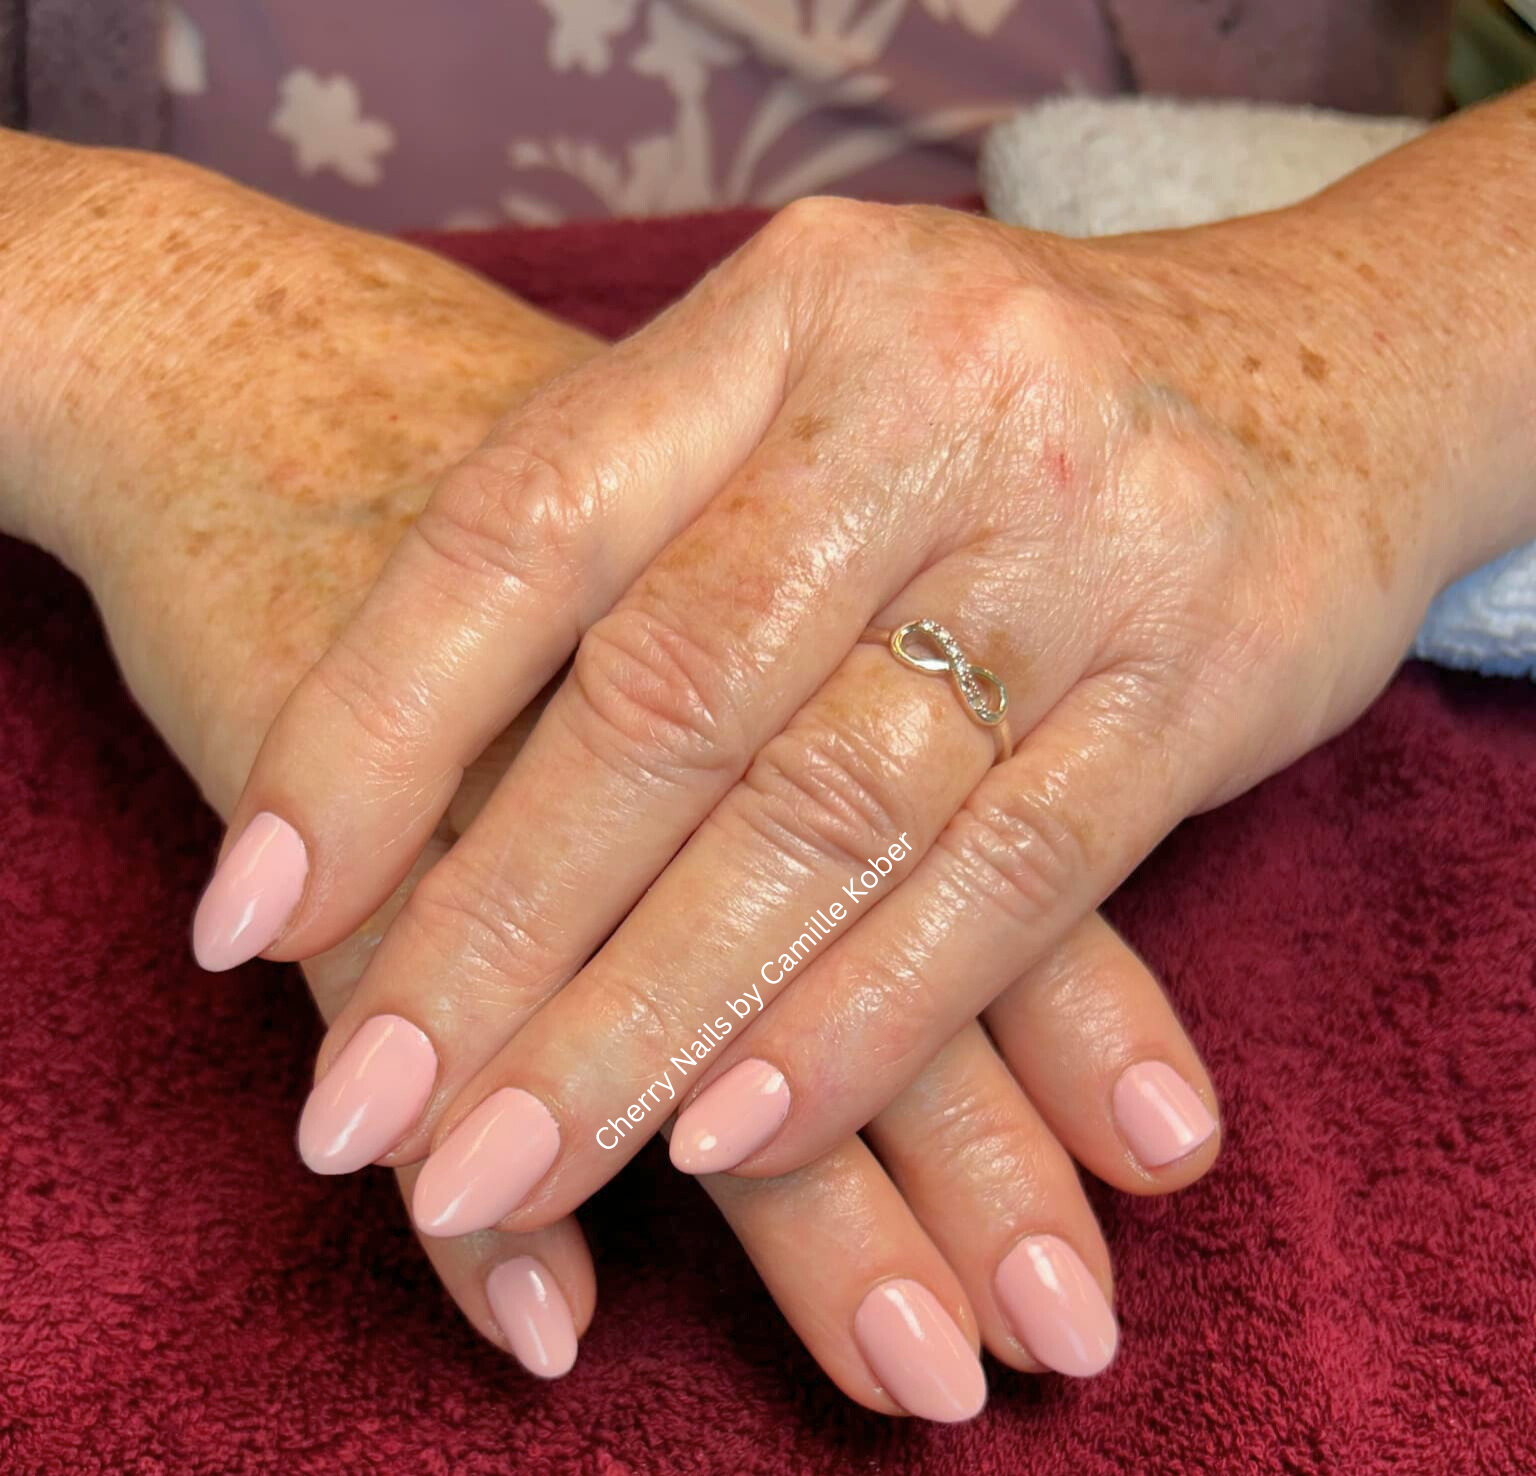
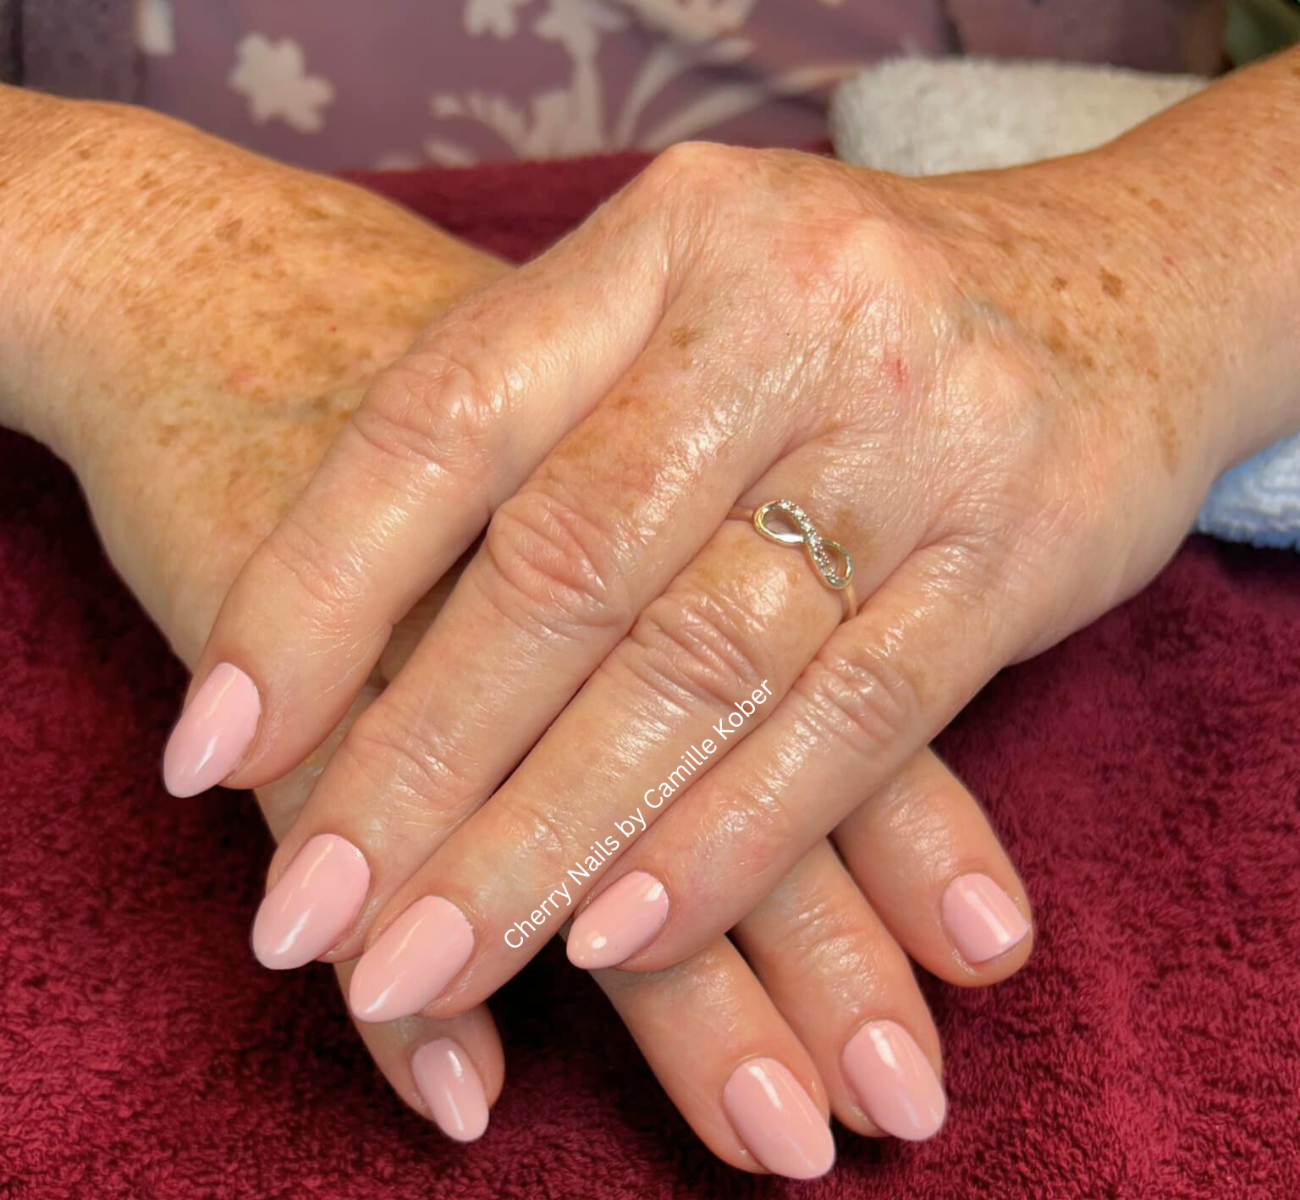
resize images

diff --git a/cherry_nails/index.html b/cherry_nails/index.html
@@ -28,11 +28,11 @@
 					<!-- Nav -->
 						<nav id="nav">
 							<ul>
-								<li><a href="#top" id="top-link"><span class="icon solid fa-home">Intro</span></a></li>
-								<li><a href="#portfolio" id="portfolio-link"><span class="icon solid fa-th">Portfolio</span></a></li>
-								<li><a href="#about" id="about-link"><span class="icon solid fa-user">About Me</span></a></li>
+								<li><a href="https://koberstudio.com/cherry_nails/#top" id="top-link"><span class="icon solid fa-home">Intro</span></a></li>
+								<li><a href="https://koberstudio.com/cherry_nails/#portfolio" id="portfolio-link"><span class="icon solid fa-th">Portfolio</span></a></li>
+								<li><a href="https://koberstudio.com/cherry_nails/#about" id="about-link"><span class="icon solid fa-user">About Me</span></a></li>
+								<li><a href="https://koberstudio.com/cherry_nails/#resume" id="about-link"><span class="icon solid fa-user">Resume</span></a></li>
 								<li><a href="mailto:camille@koberstudio.com" id="contact-link"><span class="icon solid fa-envelope">Contact</span></a></li>
-								<li><a href="#resume" id="about-link"><span class="icon solid fa-user">Resume</span></a></li>
 							</ul>
 						</nav>
 
@@ -89,21 +89,21 @@
 								
 								<div class="col-4 col-12-mobile">
 									<article class="item">
+										<a href="https://www.instagram.com/camille_kober_student_nails/" class="image fit"><img src="images/lexi_before.png" alt="" /></a>
+										<header>
+											<h3>Before</h3>
+										</header>
+									</article>
+									<article class="item">
 										<a href="https://www.instagram.com/camille_kober_student_nails/" class="image fit"><img src="images/lexi_after.png" alt="" /></a>
 										<header>
 											<h3>After</h3>
 										</header>
 									</article>
-									<article class="item">
-										<a href="https://www.instagram.com/camille_kober_student_nails/" class="image fit"><img src="images/lexi_before.jpg" alt="" /></a>
-										<header>
-											<h3>Before</h3>
-										</header>
-									</article>
 								</div>
 								<div class="col-4 col-12-mobile">
 									<article class="item">
-										<a href="https://www.instagram.com/camille_kober_student_nails/" class="image fit" ><img src="images/leigh_before.jpg" alt="" /></a>
+										<a href="https://www.instagram.com/camille_kober_student_nails/" class="image fit" ><img src="images/leigh_before.png" alt="" /></a>
 										<header>
 											<h3>Before</h3>
 										</header>
@@ -117,7 +117,7 @@
 								</div>
 								<div class="col-4 col-12-mobile">
 									<article class="item">
-										<a href="https://www.instagram.com/camille_kober_student_nails/" class="image fit"><img src="images/Karen_Before.jpg" alt="" /></a>
+										<a href="https://www.instagram.com/camille_kober_student_nails/" class="image fit"><img src="images/karen_before.png" alt="" /></a>
 										<header>
 											<h3>Before</h3>
 										</header>
@@ -157,7 +157,7 @@
 					</section>
 
 				<!-- Resume -->
-				<section id="resume" class="three">
+				<section id="resume" class="four">
 					<div class="container">
 
 						<header>
